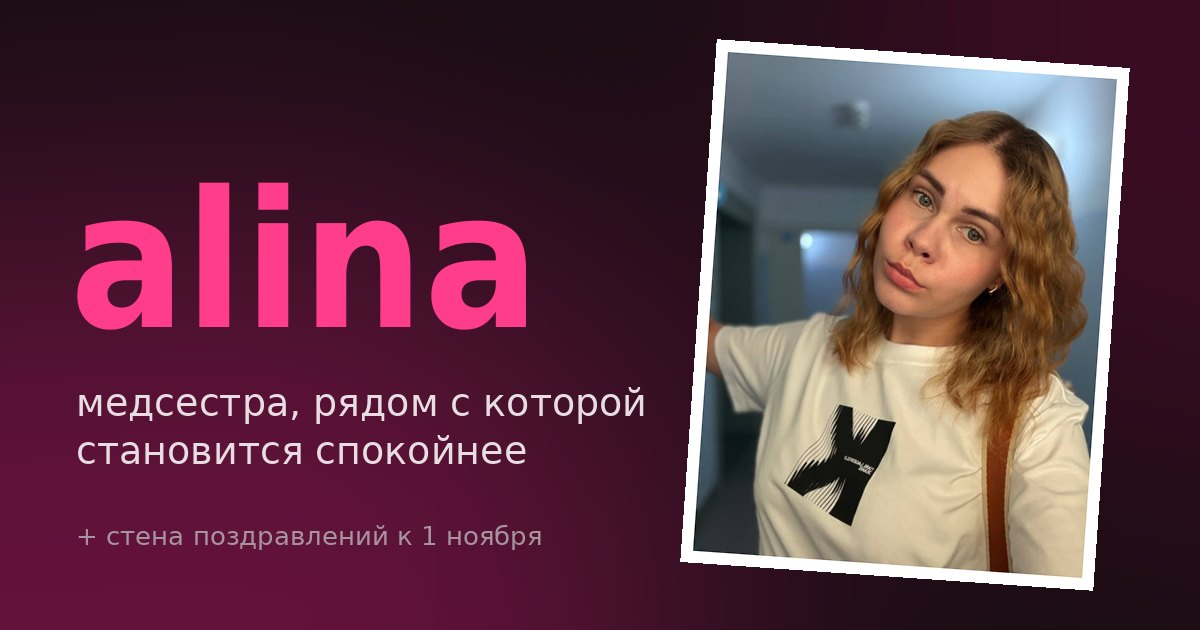
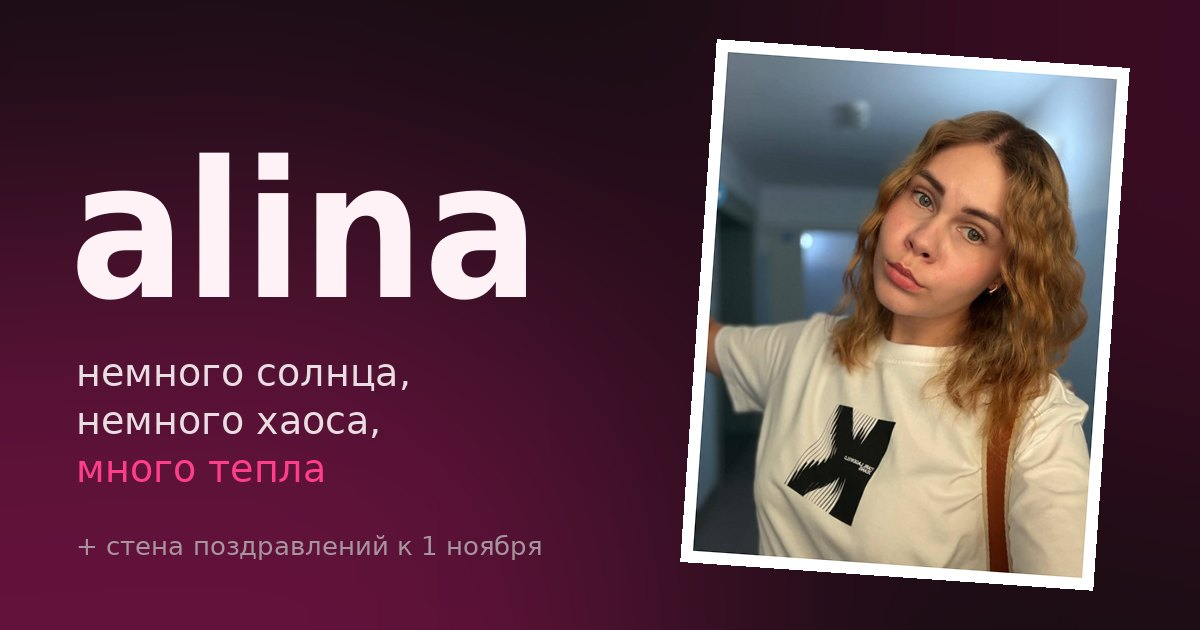
Новые тексты: титулы, подпись, комплименты, превью ссылки
Правки внесены вне этой сессии; закоммичены в ветку демки без изменений.

Claude-Session: https://claude.ai/code/session_01NQTyKswuKBgiy9qu7qU1BV

Changed region(s): [[0.0617, 0.2413, 0.4625, 0.5429], [0.0617, 0.573, 0.555, 0.7841], [0.0617, 0.8444, 0.4625, 0.9048]]

diff --git a/index.html b/index.html
@@ -4,10 +4,10 @@
 <meta charset="utf-8">
 <meta name="viewport" content="width=device-width, initial-scale=1, viewport-fit=cover">
 <title>alina</title>
-<meta name="description" content="Алина — медсестра, рядом с которой становится спокойнее">
+<meta name="description" content="alina: немного солнца, немного хаоса, много тепла">
 <meta property="og:type" content="website">
 <meta property="og:title" content="alina">
-<meta property="og:description" content="Медсестра, рядом с которой становится спокойнее">
+<meta property="og:description" content="Немного солнца, немного хаоса, много тепла">
 <meta property="og:image" content="https://alishka-eight.vercel.app/og.jpg">
 <meta property="og:image:width" content="1200">
 <meta property="og:image:height" content="630">
@@ -88,7 +88,7 @@
     <div class="hero__content">
       <div class="hero__main_text ekran" id="heroName" aria-label="alina"><span>a</span><span>li</span><span>na</span></div>
       <div class="inner_grid">
-        <p class="hero__content_bottom_text p_text" id="heroSub" data-text="hero_sub" data-label="Первый экран: подпись">Медсестра, рядом с которой становится спокойнее</p>
+        <p class="hero__content_bottom_text p_text" id="heroSub" data-text="hero_sub" data-label="Первый экран: подпись">Человек, после которого день становится лучше</p>
         <p class="hero__content_bottom_scroll p_text" id="heroMeta">©2026</p>
       </div>
     </div>
@@ -99,32 +99,32 @@
   <div class="container">
     <div class="options__item_wrap inner_grid">
       <div class="options__item left">
-        <div class="options__item_title sub_title ekran" data-text="t1_title" data-label="Титул 1">Медсестра</div>
-        <div class="options__item_desc p_text" data-text="t1_desc" data-label="Титул 1: описание">Работает в военном госпитале, где особенно важны внимание, точность и спокойная рука</div>
+        <div class="options__item_title sub_title ekran" data-text="t1_title" data-label="Титул 1">Солнце</div>
+        <div class="options__item_desc p_text" data-text="t1_desc" data-label="Титул 1: описание">Заходит в комнату — и там сразу светлее. Проверено на всех, кто хоть раз был рядом</div>
       </div>
     </div>
     <div class="options__item_wrap inner_grid">
       <div class="options__item right">
-        <div class="options__item_title sub_title ekran" data-text="t2_title" data-label="Титул 2">Рядом</div>
-        <div class="options__item_desc p_text" data-text="t2_desc" data-label="Титул 2: описание">Тот человек в смене, к которому хочется подойти, когда тревожно</div>
+        <div class="options__item_title sub_title ekran" data-text="t2_title" data-label="Титул 2">Рок-н-ролл</div>
+        <div class="options__item_desc p_text" data-text="t2_desc" data-label="Титул 2: описание">Показывает «козу» в белом халате и не видит в этом никакого противоречия</div>
       </div>
     </div>
     <div class="options__item_wrap inner_grid">
       <div class="options__item left">
-        <div class="options__item_title sub_title ekran" data-text="t3_title" data-label="Титул 3">Тепло</div>
-        <div class="options__item_desc p_text" data-text="t3_desc" data-label="Титул 3: описание">Говорит мягко, объясняет понятно и не забывает улыбнуться даже после долгой смены</div>
+        <div class="options__item_title sub_title ekran" data-text="t3_title" data-label="Титул 3">Селфи</div>
+        <div class="options__item_desc p_text" data-text="t3_desc" data-label="Титул 3: описание">Найдёт удачный ракурс в любом зеркале, лифте и на любой смотровой площадке</div>
       </div>
     </div>
     <div class="options__item_wrap inner_grid">
       <div class="options__item right">
-        <div class="options__item_title sub_title ekran" data-text="t4_title" data-label="Титул 4">Смена</div>
-        <div class="options__item_desc p_text" data-text="t4_desc" data-label="Титул 4: описание">Дежурства, ранние подъёмы и ночи, после которых всё равно остаётся силы на добрые слова</div>
+        <div class="options__item_title sub_title ekran" data-text="t4_title" data-label="Титул 4">Госпиталь</div>
+        <div class="options__item_desc p_text" data-text="t4_desc" data-label="Титул 4: описание">Работает там, где нужны крепкие нервы и добрые руки. У неё есть и то и другое</div>
       </div>
     </div>
     <div class="options__item_wrap inner_grid">
       <div class="options__item options__item_solid">
         <div class="options__item_circle"></div>
-        <div class="options__item_desc p_text" data-text="t5_desc" data-label="Розовая карточка">Для неё забота не должность, а способ быть рядом с людьми, когда им это нужнее всего</div>
+        <div class="options__item_desc p_text" data-text="t5_desc" data-label="Розовая карточка">За эти годы из «просто Алины» она стала человеком, без которого любая компания немного не та</div>
       </div>
     </div>
   </div>
@@ -142,7 +142,7 @@
 
 <section class="iamgleb sec_black">
   <div class="iamgleb__content">
-    <div class="iamgleb__line ekran" data-text="iam_line" data-label="Бегущая строка «Я — …»">Я — Алина, и я медсестра</div>
+    <div class="iamgleb__line ekran" data-text="iam_line" data-label="Бегущая строка «Я — …»">Я — Алина, и здесь всё про меня</div>
     <svg class="iamgleb__gif" viewBox="0 0 24 24" aria-hidden="true"><use href="#i-heart"/></svg>
     <svg class="iamgleb__gif" viewBox="0 0 24 24" aria-hidden="true"><use href="#i-cross"/></svg>
   </div>
@@ -150,10 +150,10 @@
 
 <section class="orpk sec_black">
   <div class="orpk__content">
-    <div class="orpk__item"><p class="orpk__item_text ekran" data-text="word1" data-label="Большое слово 1">внимательно</p></div>
-    <div class="orpk__item"><p class="orpk__item_text ekran" data-text="word2" data-label="Большое слово 2">бережно</p></div>
-    <div class="orpk__item"><p class="orpk__item_text ekran" data-text="word3" data-label="Большое слово 3">спокойно</p></div>
-    <div class="orpk__item"><p class="orpk__item_text ekran" data-text="word4" data-label="Большое слово 4">ответственно</p></div>
+    <div class="orpk__item"><p class="orpk__item_text ekran" data-text="word1" data-label="Большое слово 1">смешная</p></div>
+    <div class="orpk__item"><p class="orpk__item_text ekran" data-text="word2" data-label="Большое слово 2">нежная</p></div>
+    <div class="orpk__item"><p class="orpk__item_text ekran" data-text="word3" data-label="Большое слово 3">дерзкая</p></div>
+    <div class="orpk__item"><p class="orpk__item_text ekran" data-text="word4" data-label="Большое слово 4">настоящая</p></div>
   </div>
 </section>
 
@@ -162,9 +162,9 @@
     <div class="about__content">
       <div class="about__offer">
         <div class="about__title sub_title ekran">
-          <div class="about__title_text" data-text="about_title" data-label="О ней: заголовок">система спокойной заботы<br>в мире, где<br>всё спешит</div>
+          <div class="about__title_text" data-text="about_title" data-label="О ней: заголовок">немного солнца,<br>немного хаоса,<br>много тепла</div>
         </div>
-        <div class="about__text p_text" data-text="about_text" data-label="О ней: текст">Алиночка показывает заботу через мелочи: внимательно слушает, мягко объясняет, спокойно делает своё дело и всегда помнит, что за каждым пациентом стоит человек со своей историей</div>
+        <div class="about__text p_text" data-text="about_text" data-label="О ней: текст">Алиночка — это смех на всю комнату, кудри, которые живут своей жизнью, и редкий талант поддержать человека так, что он даже не замечает, как ему стало легче</div>
       </div>
       <div class="about__img" data-zoom><div class="ph"><img src="img/p08.webp" alt="Алина" decoding="async"></div></div>
     </div>
@@ -176,10 +176,10 @@
     <div class="inner_grid">
       <div class="zoj__offer">
         <div class="zoj__title sub_title ekran">
-          <div class="zoj__title_line" data-text="zoj_title1" data-label="Полароиды: заголовок, строка 1">внимание к людям</div>
-          <div class="zoj__title_line" data-text="zoj_title2" data-label="Полароиды: заголовок, строка 2">и к мелочам</div>
+          <div class="zoj__title_line" data-text="zoj_title1" data-label="Полароиды: заголовок, строка 1">просто кадры</div>
+          <div class="zoj__title_line" data-text="zoj_title2" data-label="Полароиды: заголовок, строка 2">из её жизни</div>
         </div>
-        <div class="zoj__desc p_text" data-text="zoj_desc" data-label="Полароиды: текст">В смене у Алинки много тёплых слов, спокойного голоса и ощущения, что рядом свой человек</div>
+        <div class="zoj__desc p_text" data-text="zoj_desc" data-label="Полароиды: текст">Парк, скамейка, солнце в лицо — и та самая обезьянка, которую почему-то невозможно не любить</div>
       </div>
     </div>
     <div class="zoj__photo_list">
@@ -191,20 +191,20 @@
 
 <section class="gang sec_white sec_zi">
   <div class="container">
-    <div class="gang__141 ekran"><span data-text="gang_tag" data-label="Близкий круг: большой хэштег">#забота</span></div>
+    <div class="gang__141 ekran"><span data-text="gang_tag" data-label="Близкий круг: большой хэштег">#свои</span></div>
     <div class="gang__text inner_grid">
       <div class="gang__text_item p_text" data-text="gang_k1" data-label="Близкий круг: подпись 1">близкий круг</div>
-      <div class="gang__text_item p_text" data-text="gang_k2" data-label="Близкий круг: подпись 2">Тёплые связи вне смены</div>
-      <div class="gang__text_item p_text" data-text="gang_k3" data-label="Близкий круг: текст">Вокруг неё собрался свой круг людей: семья, подруги и коллеги, с которыми проще пережить любую смену</div>
+      <div class="gang__text_item p_text" data-text="gang_k2" data-label="Близкий круг: подпись 2">проверено временем</div>
+      <div class="gang__text_item p_text" data-text="gang_k3" data-label="Близкий круг: текст">Вокруг неё всегда собирается своя компания: те, с кем можно молчать, орать песни и обсуждать всё на свете</div>
     </div>
     <div class="gang__list_wrap">
-      <div class="gang__list_title p_text" data-text="gang_list_title" data-label="Близкий круг: заголовок списка">те, кто рядом</div>
+      <div class="gang__list_title p_text" data-text="gang_list_title" data-label="Близкий круг: заголовок списка">кто рядом</div>
       <div class="gang__list">
-        <div class="gang__list_item"><div class="gang__list_item_nick sub_title ekran" data-text="circle1_nick" data-label="Человек 1: имя или ник (пусто — скрыть)" data-hide-empty>семья</div><div class="gang__list_item_name p_text" data-text="circle1_name" data-label="Человек 1: подпись">всегда рядом</div></div>
-        <div class="gang__list_item"><div class="gang__list_item_nick sub_title ekran" data-text="circle2_nick" data-label="Человек 2: имя или ник (пусто — скрыть)" data-hide-empty>подруги</div><div class="gang__list_item_name p_text" data-text="circle2_name" data-label="Человек 2: подпись">для разговоров</div></div>
-        <div class="gang__list_item"><div class="gang__list_item_nick sub_title ekran" data-text="circle3_nick" data-label="Человек 3: имя или ник (пусто — скрыть)" data-hide-empty>коллеги</div><div class="gang__list_item_name p_text" data-text="circle3_name" data-label="Человек 3: подпись">по смене</div></div>
-        <div class="gang__list_item"><div class="gang__list_item_nick sub_title ekran" data-text="circle4_nick" data-label="Человек 4: имя или ник (пусто — скрыть)" data-hide-empty>друзья</div><div class="gang__list_item_name p_text" data-text="circle4_name" data-label="Человек 4: подпись">на связи</div></div>
-        <div class="gang__list_item"><div class="gang__list_item_nick sub_title ekran" data-text="circle5_nick" data-label="Человек 5: имя или ник (пусто — скрыть)" data-hide-empty>мы</div><div class="gang__list_item_name p_text" data-text="circle5_name" data-label="Человек 5: подпись">гордимся</div></div>
+        <div class="gang__list_item"><div class="gang__list_item_nick sub_title ekran" data-text="circle1_nick" data-label="Человек 1: имя или ник (пусто — скрыть)" data-hide-empty>семья</div><div class="gang__list_item_name p_text" data-text="circle1_name" data-label="Человек 1: подпись">всегда за неё</div></div>
+        <div class="gang__list_item"><div class="gang__list_item_nick sub_title ekran" data-text="circle2_nick" data-label="Человек 2: имя или ник (пусто — скрыть)" data-hide-empty>подруги</div><div class="gang__list_item_name p_text" data-text="circle2_name" data-label="Человек 2: подпись">знают все секреты</div></div>
+        <div class="gang__list_item"><div class="gang__list_item_nick sub_title ekran" data-text="circle3_nick" data-label="Человек 3: имя или ник (пусто — скрыть)" data-hide-empty>коллеги</div><div class="gang__list_item_name p_text" data-text="circle3_name" data-label="Человек 3: подпись">делят будни и чай</div></div>
+        <div class="gang__list_item"><div class="gang__list_item_nick sub_title ekran" data-text="circle4_nick" data-label="Человек 4: имя или ник (пусто — скрыть)" data-hide-empty>друзья</div><div class="gang__list_item_name p_text" data-text="circle4_name" data-label="Человек 4: подпись">зовут на приключения</div></div>
+        <div class="gang__list_item"><div class="gang__list_item_nick sub_title ekran" data-text="circle5_nick" data-label="Человек 5: имя или ник (пусто — скрыть)" data-hide-empty>мы</div><div class="gang__list_item_name p_text" data-text="circle5_name" data-label="Человек 5: подпись">любим и гордимся</div></div>
         <div class="gang__list_item" hidden><div class="gang__list_item_nick sub_title ekran" data-text="circle6_nick" data-label="Человек 6: имя или ник (пусто — скрыть)" data-hide-empty></div><div class="gang__list_item_name p_text" data-text="circle6_name" data-label="Человек 6: подпись"></div></div>
         <div class="gang__list_item" hidden><div class="gang__list_item_nick sub_title ekran" data-text="circle7_nick" data-label="Человек 7: имя или ник (пусто — скрыть)" data-hide-empty></div><div class="gang__list_item_name p_text" data-text="circle7_name" data-label="Человек 7: подпись"></div></div>
         <div class="gang__list_item" hidden><div class="gang__list_item_nick sub_title ekran" data-text="circle8_nick" data-label="Человек 8: имя или ник (пусто — скрыть)" data-hide-empty></div><div class="gang__list_item_name p_text" data-text="circle8_name" data-label="Человек 8: подпись"></div></div>
@@ -224,8 +224,8 @@
     </div>
     <div class="big_vid__text">
       <div class="container">
-        <div class="big_vid__text__left p_text" data-text="big_left" data-label="Большое окно: слева">Любимая<br>медсестра</div>
-        <div class="big_vid__text__right p_text" data-text="big_right" data-label="Большое окно: справа">по версии друзей</div>
+        <div class="big_vid__text__left p_text" data-text="big_left" data-label="Большое окно: слева">Самая<br>солнечная</div>
+        <div class="big_vid__text__right p_text" data-text="big_right" data-label="Большое окно: справа">по версии всех, кто её знает</div>
       </div>
     </div>
   </div>
@@ -233,7 +233,7 @@
 
 <section class="time sec_white sec_zi">
   <div class="time__content">
-    <div class="time__title sub_title ekran" data-text="time_title" data-label="Тоннель фото: заголовок">После<br>стольких смен?</div>
+    <div class="time__title sub_title ekran" data-text="time_title" data-label="Тоннель фото: заголовок">После<br>стольких лет?</div>
     <div class="time__list">
       <div class="time__item"><div class="ph"><img src="img/p03.webp" alt="" decoding="async"></div></div>
       <div class="time__item"><div class="ph"><img src="img/p10.webp" alt="" decoding="async"></div></div>
@@ -250,7 +250,7 @@
 
 <section class="slay sec_white sec_zi">
   <div class="slay__content">
-    <div class="slay__text ekran" data-text="slay_text" data-label="Фраза с сердечками">как говорилось, заботились<br>тогда, и продолжаем<br>дальше заботиться</div>
+    <div class="slay__text ekran" data-text="slay_text" data-label="Фраза с сердечками">как говорилось, смеялись<br>тогда, смеёмся<br>и дальше</div>
     <svg class="slay__prize" viewBox="0 0 24 24" aria-hidden="true"><use href="#i-heart"/></svg>
     <svg class="slay__prize" viewBox="0 0 24 24" aria-hidden="true"><use href="#i-cross"/></svg>
     <svg class="slay__prize" viewBox="0 0 24 24" aria-hidden="true"><use href="#i-heart"/></svg>
@@ -259,30 +259,30 @@
 
 <section class="victims sec_white sec_zi">
   <div class="container">
-    <div class="victims__title"><div class="victims__title_big ekran" data-text="shifts_title" data-label="Смены: заголовок">Смены</div></div>
+    <div class="victims__title"><div class="victims__title_big ekran" data-text="shifts_title" data-label="Смены: заголовок">Образы</div></div>
     <div class="victims__list">
-      <div class="victims__item" data-zoom><div class="victims__item_photo ph"><img src="img/p14.webp" alt="Алина в белом халате" decoding="async"></div><svg class="victims__item_x" viewBox="0 0 24 24" aria-hidden="true"><use href="#i-check"/></svg><div class="victims__item_status"><div class="victims__item_status_title">статус</div><div class="victims__item_status_block p_text" data-text="shift_status" data-label="Смены: статус на карточках">закрыта с теплом</div></div></div>
-      <div class="victims__item" data-zoom><div class="victims__item_photo ph"><img src="img/p13.webp" alt="Алина улыбается за рабочим столом" decoding="async"></div><svg class="victims__item_x" viewBox="0 0 24 24" aria-hidden="true"><use href="#i-check"/></svg><div class="victims__item_status"><div class="victims__item_status_title">статус</div><div class="victims__item_status_block p_text" data-text="shift_status">закрыта с теплом</div></div></div>
-      <div class="victims__item" data-zoom><div class="victims__item_photo ph"><img src="img/p12.webp" alt="Алина дома" decoding="async"></div><svg class="victims__item_x" viewBox="0 0 24 24" aria-hidden="true"><use href="#i-check"/></svg><div class="victims__item_status"><div class="victims__item_status_title">статус</div><div class="victims__item_status_block p_text" data-text="shift_status">закрыта с теплом</div></div></div>
-      <div class="victims__item" data-zoom><div class="victims__item_photo ph"><img src="img/p05.webp" alt="Алина в парке" decoding="async"></div><svg class="victims__item_x" viewBox="0 0 24 24" aria-hidden="true"><use href="#i-check"/></svg><div class="victims__item_status"><div class="victims__item_status_title">статус</div><div class="victims__item_status_block p_text" data-text="shift_status">закрыта с теплом</div></div></div>
+      <div class="victims__item" data-zoom><div class="victims__item_photo ph"><img src="img/p14.webp" alt="Алина в белом халате" decoding="async"></div><svg class="victims__item_x" viewBox="0 0 24 24" aria-hidden="true"><use href="#i-check"/></svg><div class="victims__item_status"><div class="victims__item_status_title">статус</div><div class="victims__item_status_block p_text" data-text="shift_status" data-label="Смены: статус на карточках">в избранном</div></div></div>
+      <div class="victims__item" data-zoom><div class="victims__item_photo ph"><img src="img/p13.webp" alt="Алина улыбается за рабочим столом" decoding="async"></div><svg class="victims__item_x" viewBox="0 0 24 24" aria-hidden="true"><use href="#i-check"/></svg><div class="victims__item_status"><div class="victims__item_status_title">статус</div><div class="victims__item_status_block p_text" data-text="shift_status">в избранном</div></div></div>
+      <div class="victims__item" data-zoom><div class="victims__item_photo ph"><img src="img/p12.webp" alt="Алина дома" decoding="async"></div><svg class="victims__item_x" viewBox="0 0 24 24" aria-hidden="true"><use href="#i-check"/></svg><div class="victims__item_status"><div class="victims__item_status_title">статус</div><div class="victims__item_status_block p_text" data-text="shift_status">в избранном</div></div></div>
+      <div class="victims__item" data-zoom><div class="victims__item_photo ph"><img src="img/p05.webp" alt="Алина в парке" decoding="async"></div><svg class="victims__item_x" viewBox="0 0 24 24" aria-hidden="true"><use href="#i-check"/></svg><div class="victims__item_status"><div class="victims__item_status_title">статус</div><div class="victims__item_status_block p_text" data-text="shift_status">в избранном</div></div></div>
     </div>
   </div>
 </section>
 
 <section class="kursk sec_white sec_zi">
   <div class="kursk__content">
-    <div class="kursk__img_wrap_wrap"><div class="kursk__img_wrap" data-zoom><div class="ph"><img src="img/p11.webp" alt="Алина в рабочей форме" decoding="async"></div></div></div>
+    <div class="kursk__img_wrap_wrap"><div class="kursk__img_wrap" data-zoom><div class="ph"><img src="img/p11.webp" alt="Алина" decoding="async"></div></div></div>
     <div class="kursk__text">
-      <div class="kursk__text_up ekran" data-text="kursk_up" data-label="Две строки, которые разъезжаются: верхняя">медсестра</div>
-      <div class="kursk__text_down ekran" data-text="kursk_down" data-label="Две строки, которые разъезжаются: нижняя">всегда на смене</div>
+      <div class="kursk__text_up ekran" data-text="kursk_up" data-label="Две строки, которые разъезжаются: верхняя">Алина</div>
+      <div class="kursk__text_down ekran" data-text="kursk_down" data-label="Две строки, которые разъезжаются: нижняя">всегда в кадре</div>
     </div>
   </div>
 </section>
 
 <section class="menace sec_white sec_zi">
   <div class="menace__content">
-    <div class="menace__word ekran" data-text="menace1" data-label="Дрожащие слова: первое">Всё</div>
-    <div class="menace__word ekran" data-text="menace2" data-label="Дрожащие слова: второе">хорошо?</div>
+    <div class="menace__word ekran" data-text="menace1" data-label="Дрожащие слова: первое">Это</div>
+    <div class="menace__word ekran" data-text="menace2" data-label="Дрожащие слова: второе">любовь?</div>
     <div class="menace__kus">
       <svg viewBox="0 0 24 24" aria-hidden="true"><use href="#i-heart"/></svg>
       <svg viewBox="0 0 24 24" aria-hidden="true"><use href="#i-cross"/></svg>
@@ -340,7 +340,7 @@
           <input id="rname" name="rname" type="text" maxlength="60" autocomplete="name" placeholder="Как вас представить">
         </label>
         <label for="rtext">Ваш отзыв
-          <textarea id="rtext" name="rtext" maxlength="600" placeholder="Расскажите, чем запомнилась забота и внимание"></textarea>
+          <textarea id="rtext" name="rtext" maxlength="600" placeholder="Напишите, за что вы любите Алину"></textarea>
         </label>
         <label class="hp" aria-hidden="true">Сайт <input id="rweb" name="website" type="text" tabindex="-1" autocomplete="off"></label>
         <div><button class="btn" id="rsend" type="submit">Отправить отзыв</button></div>

diff --git a/js/features.js b/js/features.js
@@ -214,35 +214,35 @@
 
   // ---------- комплимент дня ----------
   var COMPLIMENTS = [
-    "Ты делаешь мир спокойнее одним своим присутствием.",
-    "Рядом с тобой даже длинная смена кажется короче.",
-    "У тебя самые бережные руки и самое доброе сердце.",
-    "Твоя улыбка лечит не хуже лекарств.",
-    "Ты умеешь услышать то, что человек не сказал вслух.",
-    "С тобой спокойно, и это редкий дар.",
+    "С тобой даже обычный вторник похож на праздник.",
+    "У тебя смех, который хочется записать на диктофон и включать в плохие дни.",
+    "Твои кудри живут своей жизнью, и эта жизнь прекрасна.",
+    "Ты умеешь поддержать так, что человек даже не замечает, как ему стало легче.",
+    "Рядом с тобой спокойно, и это редкий дар.",
     "Ты сильнее, чем думаешь, и нежнее, чем кажется.",
-    "Твоя забота согревает даже тех, кто об этом не просил.",
-    "Ты делаешь сложное спокойно, а это настоящее мастерство.",
-    "У тебя потрясающее чувство юмора, которое спасает любой день.",
-    "Ты выглядишь прекрасно даже после ночной смены.",
-    "Твоё «всё будет хорошо» звучит как обещание, которое сбудется.",
-    "Люди запоминают тебя надолго, потому что ты настоящая.",
-    "Ты умеешь быть рядом так, что становится легче.",
+    "Ты единственная, кто может показать «козу» в белом халате и выглядеть при этом мило.",
+    "У тебя лучший взгляд на мир. Буквально: проверь любое своё селфи.",
+    "Ты превращаешь любую поездку в историю, которую потом пересказывают годами.",
+    "С тобой можно и смеяться до слёз, и молчать, и это одинаково хорошо.",
     "Твоя доброта не громкая, но её чувствуют все.",
-    "Ты пример того, как работать с сердцем.",
-    "С тобой хочется смеяться и делиться самым важным.",
-    "Ты замечаешь мелочи, из которых и складывается забота.",
-    "Твоё спокойствие заразительно, и это прекрасно.",
-    "Ты заслуживаешь столько же тепла, сколько отдаёшь.",
     "Ты светишься, даже когда устала.",
-    "С тобой любой день становится чуточку лучше.",
-    "Ты умеешь поддержать одним словом.",
+    "Ты замечаешь мелочи, из которых и складывается настоящее тепло.",
+    "Если бы у хорошего настроения было лицо, оно было бы твоим.",
+    "Ты заслуживаешь столько же любви, сколько отдаёшь.",
     "Тебе невероятно идёт быть собой.",
-    "Ты особенная, и это видно сразу.",
-    "Твоя смелость тихая, но очень настоящая.",
-    "Ты одна из тех людей, благодаря которым верится в хорошее.",
+    "С тобой любой день становится чуточку лучше.",
+    "Ты умеешь быть рядом так, что становится легче.",
     "У тебя красивые глаза и ещё более красивая душа.",
-    "Ты превращаешь заботу в искусство.",
+    "Ты одна из тех людей, благодаря которым верится в хорошее.",
+    "Твоя смелость тихая, но очень настоящая.",
+    "Даже обезьянка на фото выглядит счастливее, потому что рядом ты.",
+    "С тобой хочется смеяться и делиться самым важным.",
+    "Ты выглядишь как главная героиня фильма, где всё закончится хорошо.",
+    "Ты умеешь превратить обычную скамейку в лучшее место на свете.",
+    "Твоё «всё будет хорошо» звучит как обещание, которое сбудется.",
+    "Ты дерзкая ровно настолько, насколько нужно.",
+    "Люди запоминают тебя надолго, потому что ты настоящая.",
+    "Ты красивая без фильтров, с фильтрами и вообще всегда.",
     "Спасибо, что ты такая, какая есть."
   ];
   function initCompliment() {
